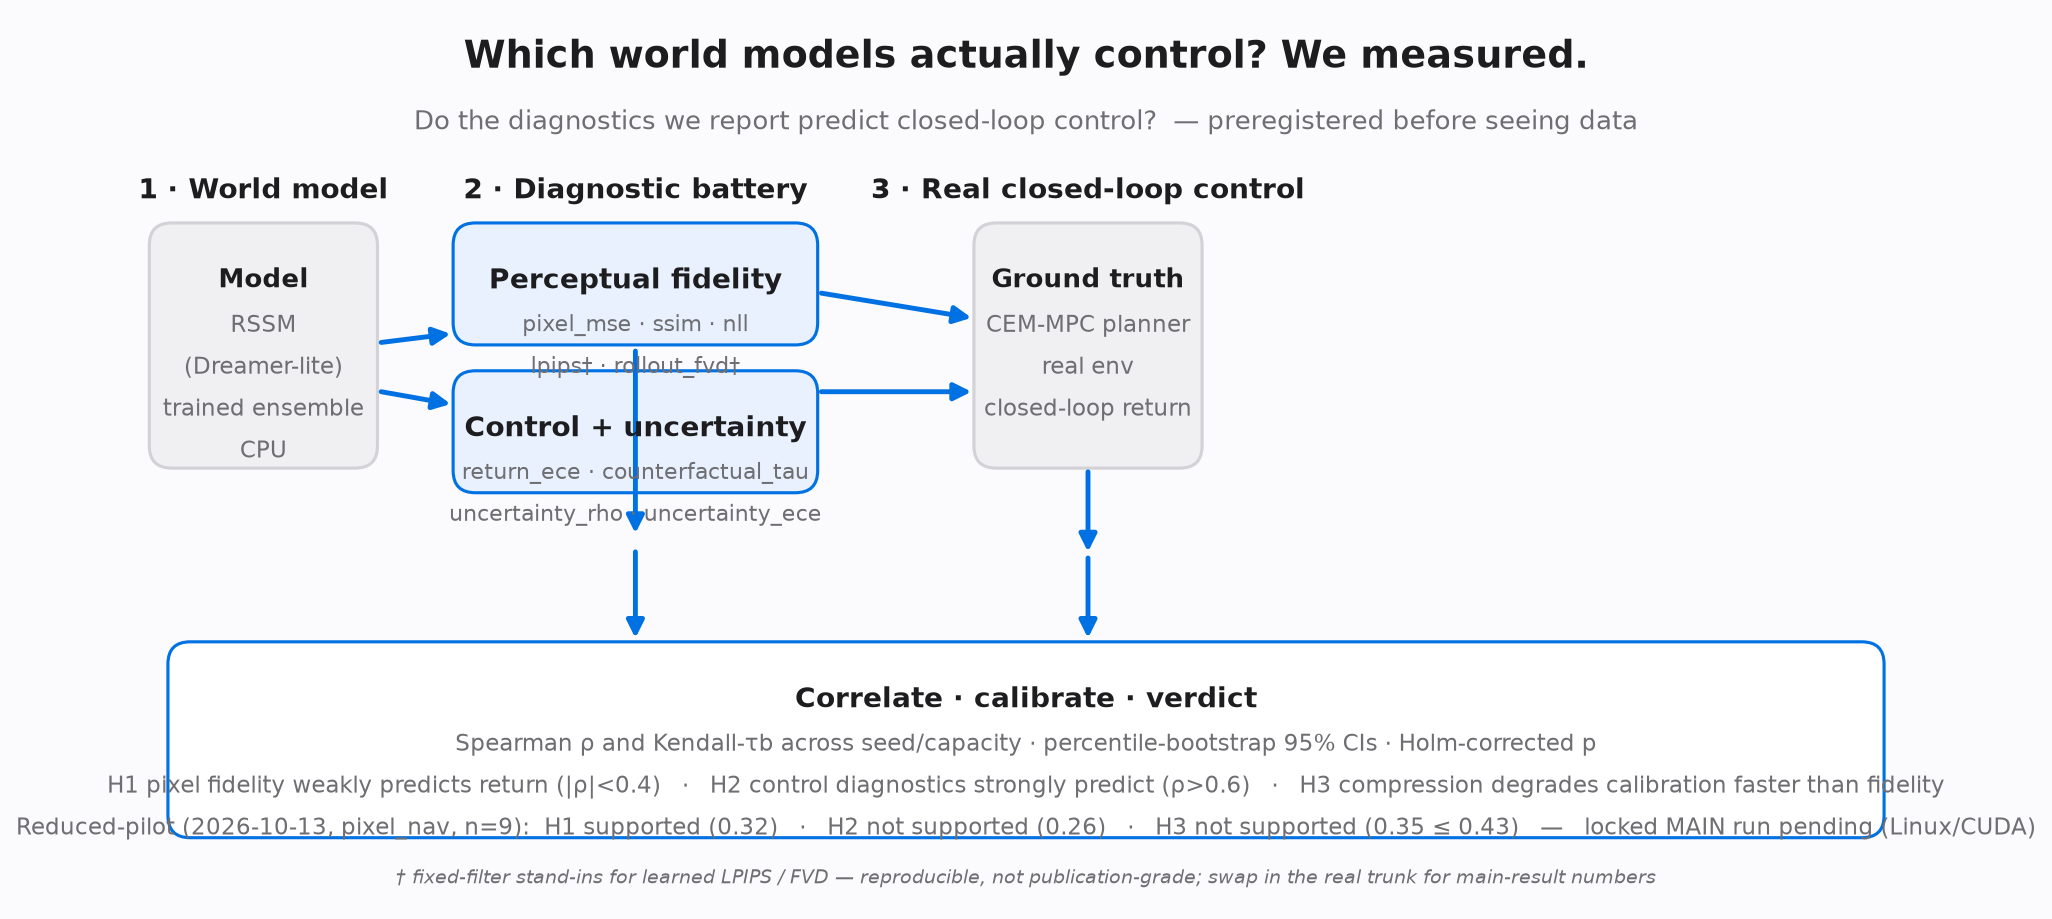
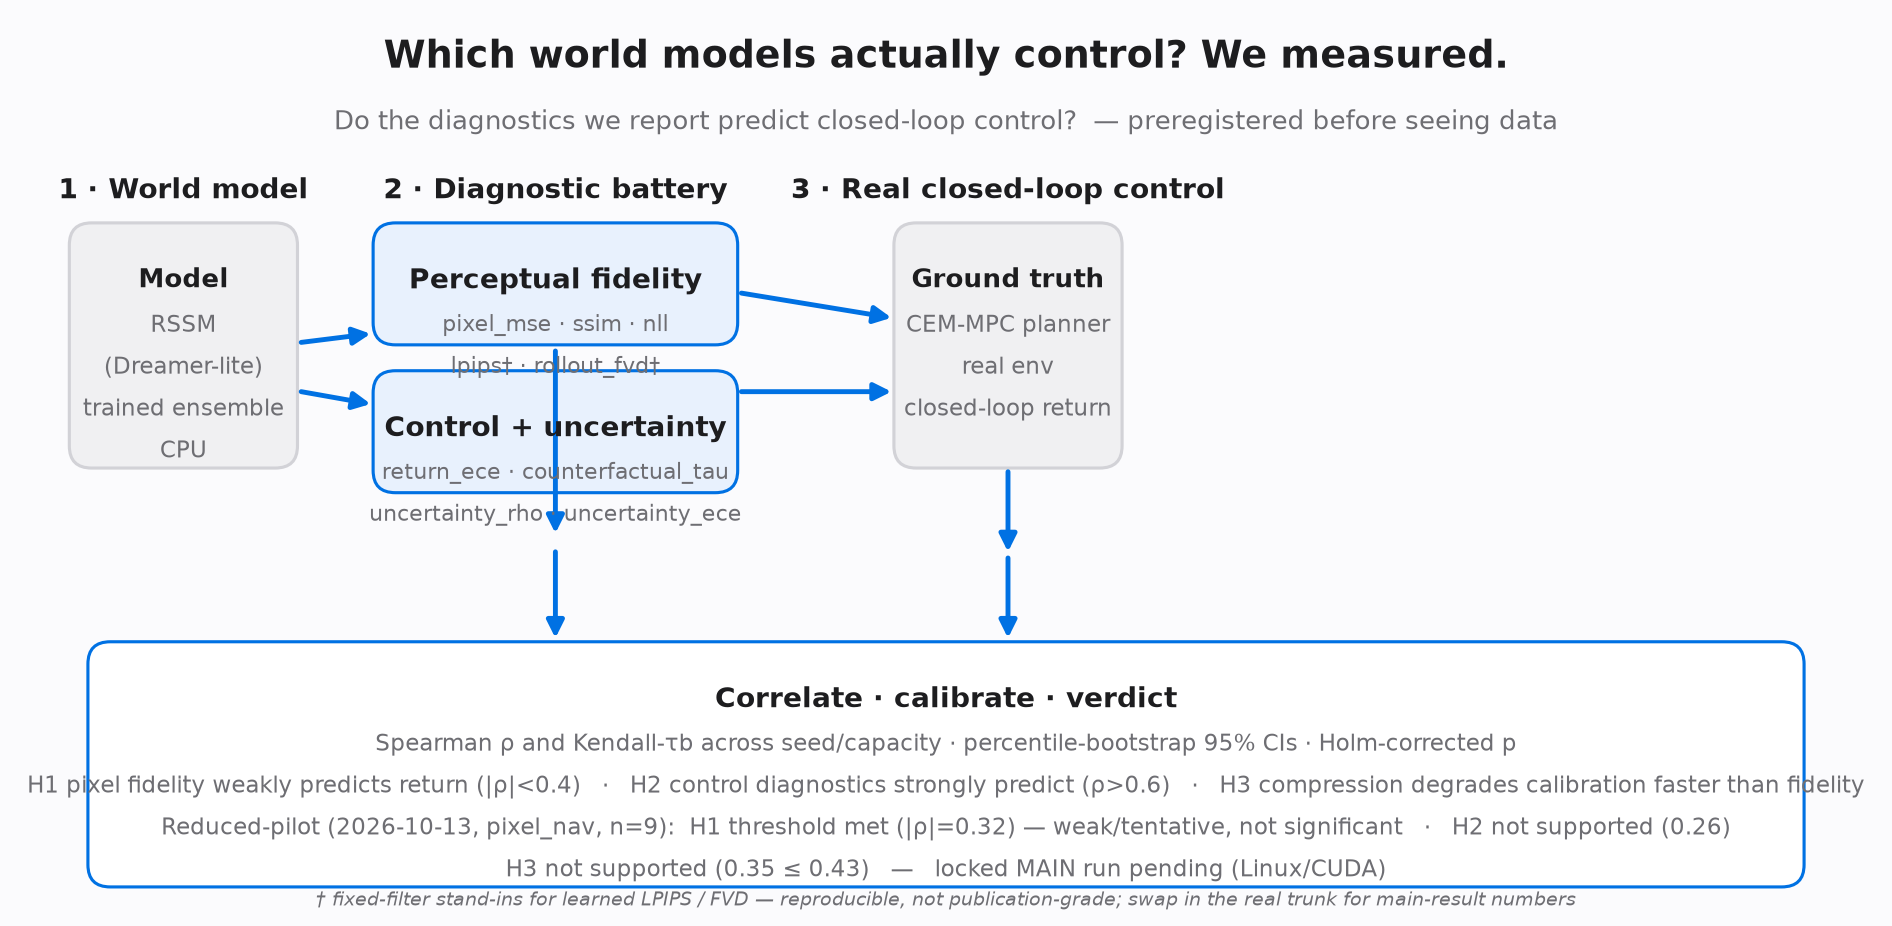
docs(honesty): align method-figure caption with qualified H1 wording; leave results_main.json note as generated (S4)

diff --git a/docs/make_figure.py b/docs/make_figure.py
@@ -76,11 +76,12 @@ block(7.1, 3.55, 1.8, 1.95, GRAY_BLOCK, GRAY_EDGE, "Ground truth",
       ["CEM-MPC planner", "real env", "closed-loop return"], title_fs=11.5)
 
 # --- bottom: correlation & verdict ----------------------------------------- #
-block(0.6, 0.55, 13.8, 1.55, "#ffffff", BLUE, "Correlate · calibrate · verdict",
+block(0.6, 0.15, 13.8, 1.95, "#ffffff", BLUE, "Correlate · calibrate · verdict",
       ["Spearman ρ and Kendall-τb across seed/capacity · percentile-bootstrap 95% CIs · Holm-corrected p",
        "H1 pixel fidelity weakly predicts return (|ρ|<0.4)   ·   H2 control diagnostics strongly predict (ρ>0.6)   ·   "
        "H3 compression degrades calibration faster than fidelity",
-       "Reduced-pilot (2026-10-13, pixel_nav, n=9):  H1 supported (0.32)   ·   H2 not supported (0.26)   ·   "
+       "Reduced-pilot (2026-10-13, pixel_nav, n=9):  H1 threshold met (|ρ|=0.32) — weak/tentative, not significant   ·   "
+       "H2 not supported (0.26)",
        "H3 not supported (0.35 ≤ 0.43)   —   locked MAIN run pending (Linux/CUDA)"],
       title_fs=12.5, body_fs=10.5)
 
@@ -95,7 +96,7 @@ arrow(8.0, 3.5, 8.0, 2.85)             # C -> bottom
 arrow(8.0, 2.8, 8.0, 2.15)             # C -> bottom
 
 # legend note
-ax.text(7.5, 0.16, "† fixed-filter stand-ins for learned LPIPS / FVD — reproducible, not publication-grade; "
+ax.text(7.5, -0.02, "† fixed-filter stand-ins for learned LPIPS / FVD — reproducible, not publication-grade; "
                    "swap in the real trunk for main-result numbers",
         ha="center", fontsize=8.6, color=GRAY, style="italic")
 

diff --git a/CHANGELOG.md b/CHANGELOG.md
@@ -21,6 +21,19 @@ on Keep a Changelog; the project follows semantic versioning and is pre-1.0.
   reproduces `LEADERBOARD.md` byte-for-byte. No statistics, data, or JSON fields
   changed; only the presentation/verdict strings.
 
+### Figure caption aligned (S4 follow-up)
+- The method-overview figure (`docs/make_figure.py` →
+  `docs/wm_audit_pipeline.png`) bottom verdict line no longer carried the
+  unqualified "H1 supported (0.32)". It now reads "H1 threshold met (|ρ|=0.32) —
+  weak/tentative, not significant", matching README/LEADERBOARD. No numbers
+  changed; PNG regenerated deterministically via the same script.
+- `leaderboard/results_main.json`'s H1 `note` field deliberately left as
+  committed: it is the mechanical string emitted by
+  `prereg_decision_h1` (`wm_audit/diagnostics/fidelity_utility.py`), is not
+  consumed by the leaderboard renderer or any test, and hand-editing the
+  artifact without aligning the generator would reintroduce drift (the
+  generator itself is method code, out of scope for this wording pass).
+
 ## [0.0.1] - 2026-10-22
 
 ### Fixed
